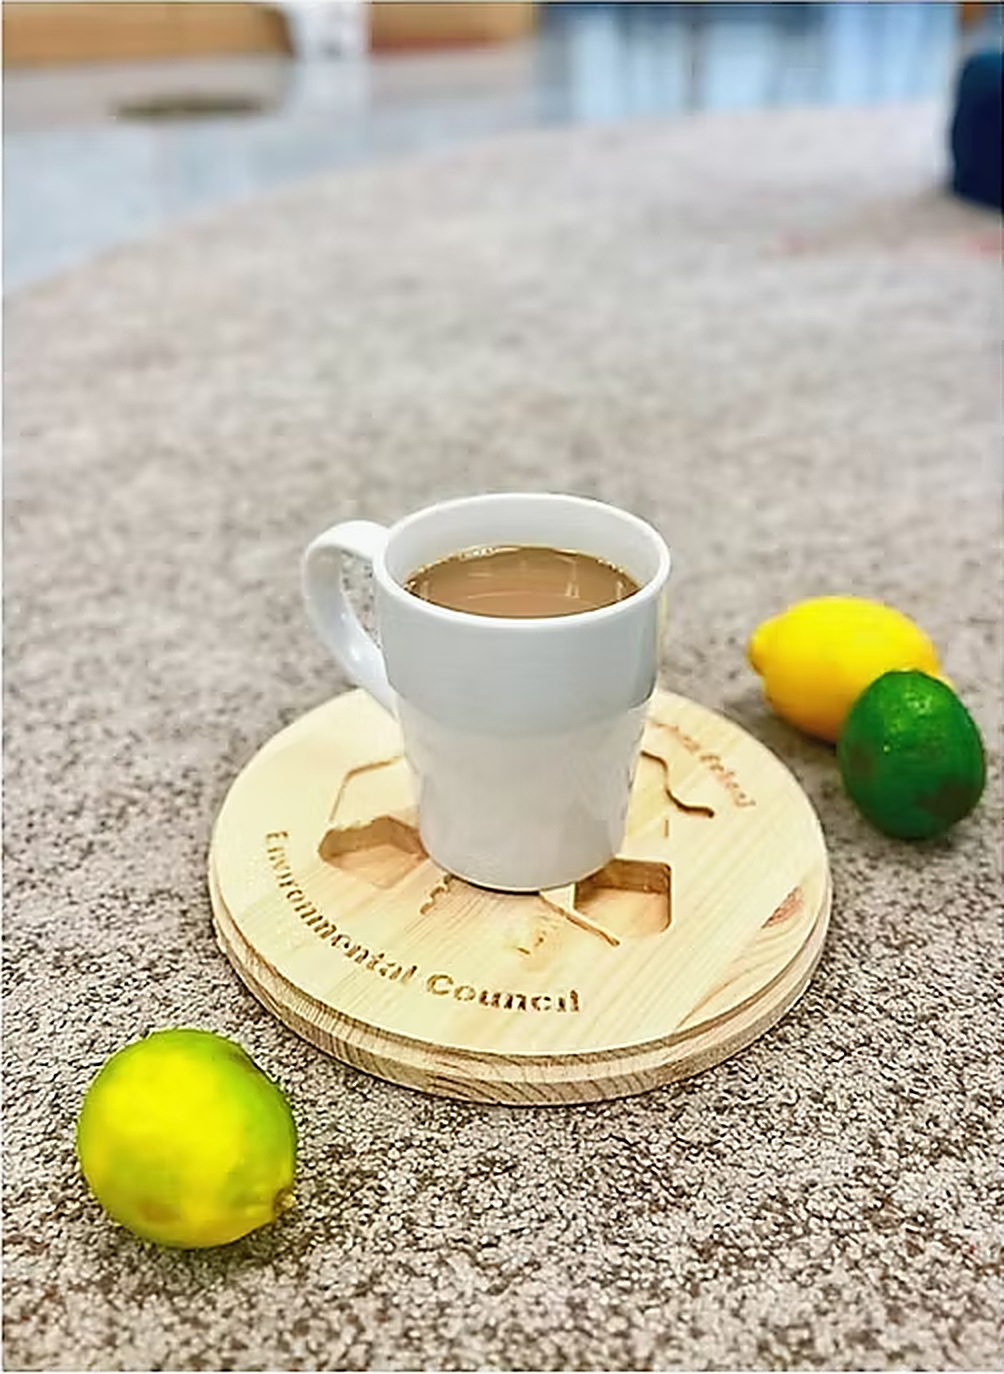
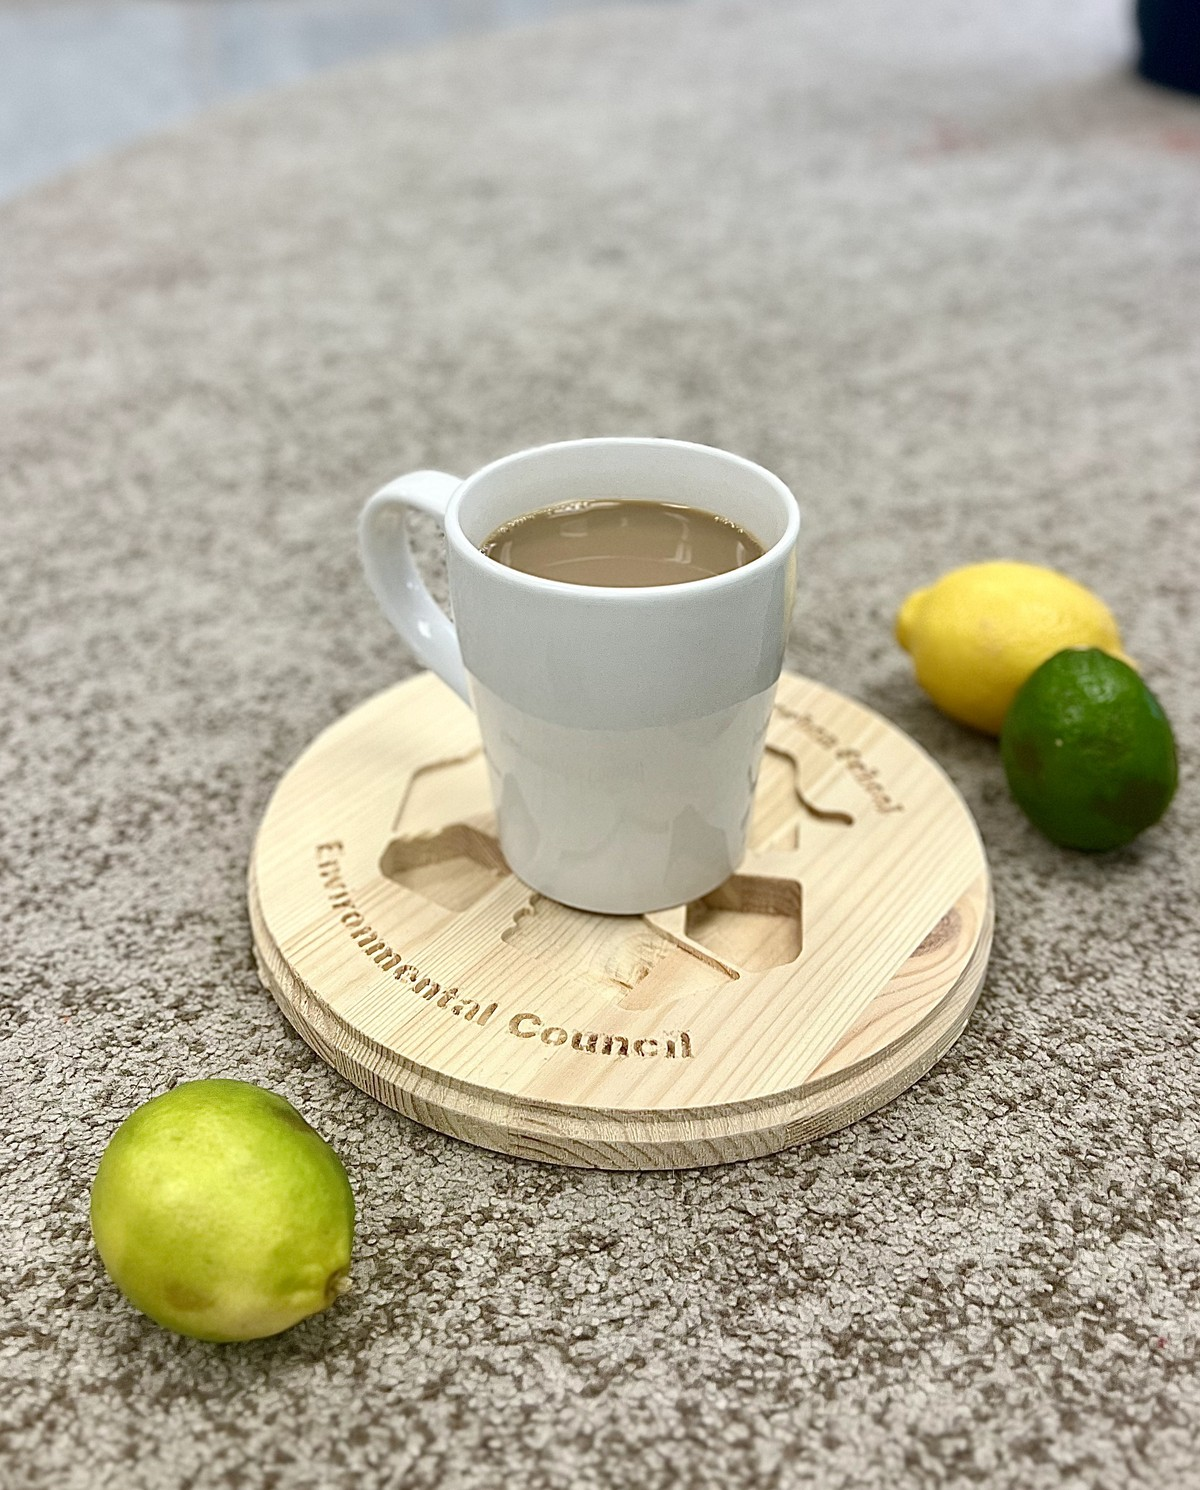
Environmental Council: original cup mat photo

diff --git a/index.html b/index.html
@@ -418,7 +418,7 @@
                 <p>I extended the concept into council merchandise. The same carved design works as a cup mat, carrying the council’s message off the bulletin board and onto the table.</p>
               </div>
               <figure class="fold-media staso-media">
-                <img loading="lazy" src="assets/env-cupmat.jpg?v=2" alt="The wooden design used as a cup mat under a cup of coffee, with a lemon and limes" />
+                <img loading="lazy" src="assets/env-cupmat.jpg?v=3" alt="The wooden Environmental Council design used as a cup mat under a cup of coffee, with a lemon and limes" />
               </figure>
             </section>
 
